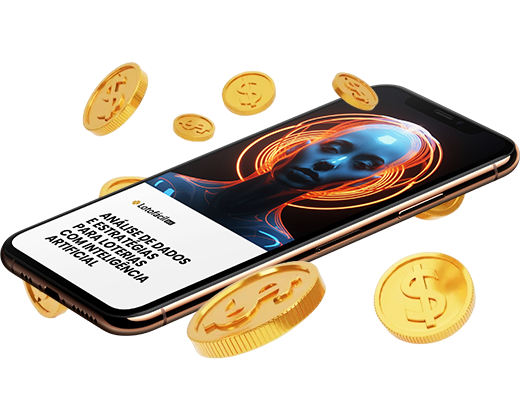
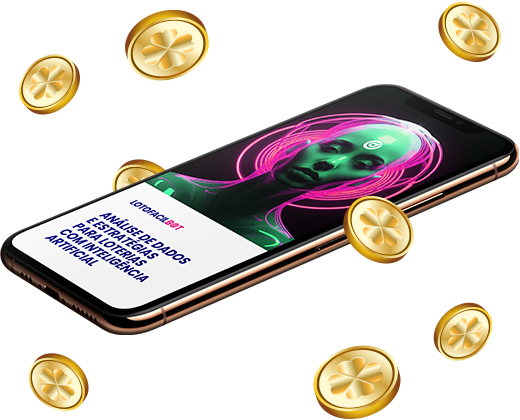
edited

diff --git a/index.html b/index.html
@@ -26,7 +26,7 @@
                 <img src="./logo-lotofacilbot.png" class="mr-3 h-6 sm:h-6" alt="LOTOFÁCIL BOT Logo" />
             </a>
             <div class="flex items-center lg:order-2">
-                <a href="https://lotofacilbot.com/register" class="text-black hover:text-white bg-yellow-600 hover:bg-yellow-700 focus:ring-4 focus:ring-primary-300 font-medium rounded-lg text-base px-4 lg:px-5 py-2 lg:py-2.5 dark:bg-primary-600 dark:hover:bg-primary-700 focus:outline-none dark:focus:ring-primary-800">Cadastre-se!</a>
+                <a href="https://lotofacilbot.com/register" class="text-white hover:text-white bg-pink-600 hover:bg-pink-700 focus:ring-4 focus:ring-primary-300 font-medium rounded-lg text-base px-4 lg:px-5 py-2 lg:py-2.5 dark:bg-primary-600 dark:hover:bg-primary-700 focus:outline-none dark:focus:ring-primary-800">Cadastre-se!</a>
             </div>
             
         </div>
@@ -36,12 +36,12 @@
 
 
 <!-- INÍCIO HERO -->
-<section class="bg-black">
+<section class="bg-blue-950">
     <div class="grid max-w-screen-xl px-4 py-8 mx-auto lg:gap-8 xl:gap-0 lg:py-16 lg:grid-cols-12">
         <div class="mr-auto place-self-center lg:col-span-7">
-            <h1 class="max-w-2xl mb-4 text-4xl font-bold tracking-tight md:text-5xl xl:text-5xl text-white">Análise de Dados e Estratégias para <span class="text-yellow-600">Loterias</span> com Inteligência Artificial</h1>
-            <p class="max-w-2xl mb-6 font-normal lg:mb-8 md:text-lg lg:text-xl text-gray-300">Descubra uma nova era nas apostas de loteria. Potencialize sua estratégia, automatize suas escolhas e eleve suas chances de sucesso.</p>
-            <a href="https://lotofacilbot.com/register" class="inline-flex items-center justify-center px-5 py-3 mr-3 text-base font-medium text-center text-black hover:text-white rounded-lg bg-yellow-600 hover:bg-yellow-700 focus:ring-4 focus:ring-primary-300 dark:focus:ring-primary-900">
+            <h1 class="max-w-2xl mb-4 text-4xl font-bold tracking-tight md:text-5xl xl:text-5xl text-white">Análise de Dados e Estratégias para <span class="text-pink-600">Loterias</span> com Inteligência Artificial</h1>
+            <p class="max-w-2xl mb-6 font-normal lg:mb-8 md:text-lg lg:text-xl text-white">Descubra uma nova era nas apostas de loteria. Potencialize sua estratégia, automatize suas escolhas e eleve suas chances de sucesso.</p>
+            <a href="https://lotofacilbot.com/register" class="inline-flex items-center justify-center px-5 py-3 mr-3 text-base font-medium text-center text-white hover:text-white rounded-lg bg-pink-600 hover:bg-pink-700 focus:ring-4 focus:ring-primary-300 dark:focus:ring-primary-900">
                 Cadastre-se!
                 <svg class="w-5 h-5 ml-2 -mr-1" fill="currentColor" viewBox="0 0 20 20" xmlns="http://www.w3.org/2000/svg"><path fill-rule="evenodd" d="M10.293 3.293a1 1 0 011.414 0l6 6a1 1 0 010 1.414l-6 6a1 1 0 01-1.414-1.414L14.586 11H3a1 1 0 110-2h11.586l-4.293-4.293a1 1 0 010-1.414z" clip-rule="evenodd"></path></svg>
             </a>
@@ -67,23 +67,17 @@
       </div>
       <div class="space-y-8 md:grid md:grid-cols-2 lg:grid-cols-3 md:gap-12 md:space-y-0">
           <div>
-              <div class="flex justify-center items-center mb-4 w-7 h-7 rounded-full lg:h-7 lg:w-7">
-                  <svg xmlns="http://www.w3.org/2000/svg" viewBox="0 0 448 512"><path d="M448 80v48c0 44.2-100.3 80-224 80S0 172.2 0 128V80C0 35.8 100.3 0 224 0S448 35.8 448 80zM393.2 214.7c20.8-7.4 39.9-16.9 54.8-28.6V288c0 44.2-100.3 80-224 80S0 332.2 0 288V186.1c14.9 11.8 34 21.2 54.8 28.6C99.7 230.7 159.5 240 224 240s124.3-9.3 169.2-25.3zM0 346.1c14.9 11.8 34 21.2 54.8 28.6C99.7 390.7 159.5 400 224 400s124.3-9.3 169.2-25.3c20.8-7.4 39.9-16.9 54.8-28.6V432c0 44.2-100.3 80-224 80S0 476.2 0 432V346.1z"/></svg>
-              </div>
+              <img class="w-full rounded-lg mb-4" src="./analisededados.png" alt="Análise de Dados">
               <h3 class="mb-2 text-xl font-bold dark:text-white">Análise de Dados</h3>
               <p class="text-gray-600 dark:text-gray-500">Explore estatísticas detalhadas e insights valiosos sobre padrões numéricos e tendências de sorteio, auxiliando na tomada de decisões mais informadas ao fazer suas apostas.</p>
           </div>
           <div>
-              <div class="flex justify-center items-center mb-4 w-9 h-9 rounded-full lg:h-9 lg:w-9">
-                 <svg xmlns="http://www.w3.org/2000/svg" viewBox="0 0 448 512"><path d="M216.6 49.9C205.1 38.5 189.5 32 173.3 32C139.4 32 112 59.4 112 93.3v4.9c0 12 3.3 23.7 9.4 34l18.8 31.3c1.1 1.8 1.2 3.1 1 4.2c-.2 1.2-.8 2.5-2 3.6s-2.4 1.8-3.6 2c-1 .2-2.4 .1-4.2-1l-31.3-18.8c-10.3-6.2-22-9.4-34-9.4H61.3C27.4 144 0 171.4 0 205.3c0 16.2 6.5 31.8 17.9 43.3l1.2 1.2c3.4 3.4 3.4 9 0 12.4l-1.2 1.2C6.5 274.9 0 290.5 0 306.7C0 340.6 27.4 368 61.3 368h4.9c12 0 23.7-3.3 34-9.4l31.3-18.8c1.8-1.1 3.1-1.2 4.2-1c1.2 .2 2.5 .8 3.6 2s1.8 2.4 2 3.6c.2 1 .1 2.4-1 4.2l-18.8 31.3c-6.2 10.3-9.4 22-9.4 34v4.9c0 33.8 27.4 61.3 61.3 61.3c16.2 0 31.8-6.5 43.3-17.9l1.2-1.2c3.4-3.4 9-3.4 12.4 0l1.2 1.2c11.5 11.5 27.1 17.9 43.3 17.9c33.8 0 61.3-27.4 61.3-61.3v-4.9c0-12-3.3-23.7-9.4-34l-18.8-31.3c-1.1-1.8-1.2-3.1-1-4.2c.2-1.2 .8-2.5 2-3.6s2.4-1.8 3.6-2c1-.2 2.4-.1 4.2 1l31.3 18.8c10.3 6.2 22 9.4 34 9.4h4.9c33.8 0 61.3-27.4 61.3-61.3c0-16.2-6.5-31.8-17.9-43.3l-1.2-1.2c-3.4-3.4-3.4-9 0-12.4l1.2-1.2c11.5-11.5 17.9-27.1 17.9-43.3c0-33.8-27.4-61.3-61.3-61.3h-4.9c-12 0-23.7 3.3-34 9.4l-31.3 18.8c-1.8 1.1-3.1 1.2-4.2 1c-1.2-.2-2.5-.8-3.6-2s-1.8-2.4-2-3.6c-.2-1-.1-2.4 1-4.2l18.8-31.3c6.2-10.3 9.4-22 9.4-34V93.3C336 59.4 308.6 32 274.7 32c-16.2 0-31.8 6.5-43.3 17.9l-1.2 1.2c-3.4 3.4-9 3.4-12.4 0l-1.2-1.2z"/></svg>
-              </div>
+              <img class="w-full rounded-lg mb-4" src="./estrategialoterias.png" alt="Estratégias para Loterias">
               <h3 class="mb-2 text-xl font-bold dark:text-white">Estratégias para Loterias</h3>
               <p class="text-gray-600 dark:text-gray-500">Desenvolva táticas inteligentes e personalizadas para aumentar suas chances de ganhar, utilizando análises precisas e recomendações estratégicas adaptadas ao seu perfil de apostador.</p>
           </div>
           <div>
-              <div class="flex justify-center items-center mb-4 w-10 h-10 rounded-full lg:h-10 lg:w-10">
-                  <svg xmlns="http://www.w3.org/2000/svg" viewBox="0 0 640 512"><path d="M320 0c17.7 0 32 14.3 32 32V96H472c39.8 0 72 32.2 72 72V440c0 39.8-32.2 72-72 72H168c-39.8 0-72-32.2-72-72V168c0-39.8 32.2-72 72-72H288V32c0-17.7 14.3-32 32-32zM208 384c-8.8 0-16 7.2-16 16s7.2 16 16 16h32c8.8 0 16-7.2 16-16s-7.2-16-16-16H208zm96 0c-8.8 0-16 7.2-16 16s7.2 16 16 16h32c8.8 0 16-7.2 16-16s-7.2-16-16-16H304zm96 0c-8.8 0-16 7.2-16 16s7.2 16 16 16h32c8.8 0 16-7.2 16-16s-7.2-16-16-16H400zM264 256a40 40 0 1 0 -80 0 40 40 0 1 0 80 0zm152 40a40 40 0 1 0 0-80 40 40 0 1 0 0 80zM48 224H64V416H48c-26.5 0-48-21.5-48-48V272c0-26.5 21.5-48 48-48zm544 0c26.5 0 48 21.5 48 48v96c0 26.5-21.5 48-48 48H576V224h16z"/></svg>                  
-              </div>
+              <img class="w-full rounded-lg mb-4" src="./Inteligenciaartificial.png" alt="Inteligência Artificial">
               <h3 class="mb-2 text-xl font-bold dark:text-white">Inteligência Artificial</h3>
               <p class="text-gray-600 dark:text-gray-500">Conte com o poder da tecnologia avançada para otimizar suas escolhas de números, utilizando algoritmos inteligentes e aprendizado de máquina para maximizar suas chances de sucesso nas loterias.</p>
           </div>
@@ -101,10 +95,10 @@
 <p class="text-gray-500 sm:text-xl dark:text-gray-400">Bem-vindo ao nosso inovador produto de loteria! Inicialmente, oferecemos estatísticas detalhadas da <span class="font-semibold">Lotofácil</span> e de outras loterias renomadas.</p>
 </div>
 
-<iframe width="100%" height="698" class="rounded-lg" src="https://www.youtube.com/embed/1A5dxbtlX2k?si=THZjMzYtFMi6irqr" title="YouTube video player" frameborder="0" allow="accelerometer; autoplay; clipboard-write; encrypted-media; gyroscope; picture-in-picture; web-share" allowfullscreen></iframe>
+<iframe width="100%" height="698" class="rounded-lg" src="https://www.youtube.com/embed/zQFdIP4AZCk?si=zx9ChAP_7sWnnv-s" title="YouTube video player" frameborder="0" allow="accelerometer; autoplay; clipboard-write; encrypted-media; gyroscope; picture-in-picture; web-share" allowfullscreen></iframe>
 
 <div class="text-center mt-8">
-<a href="https://lotofacilbot.com/register" class="inline-flex items-center justify-center px-24 py-3 text-base font-medium text-center text-black hover:text-white rounded-lg bg-yellow-600 hover:bg-yellow-700 focus:ring-4 focus:ring-primary-300 ">
+<a href="https://lotofacilbot.com/register" class="inline-flex items-center justify-center px-24 py-3 text-base font-medium text-center text-white hover:text-white rounded-lg bg-pink-600 hover:bg-pink-700 focus:ring-4 focus:ring-primary-300 ">
 Cadastre-se!
 <svg class="w-5 h-5 ml-2 -mr-1" fill="currentColor" viewBox="0 0 20 20" xmlns="http://www.w3.org/2000/svg"><path fill-rule="evenodd" d="M10.293 3.293a1 1 0 011.414 0l6 6a1 1 0 010 1.414l-6 6a1 1 0 01-1.414-1.414L14.586 11H3a1 1 0 110-2h11.586l-4.293-4.293a1 1 0 010-1.414z" clip-rule="evenodd"></path></svg>
 </a>
@@ -144,8 +138,8 @@ Cadastre-se!
             <p class="font-semibold mt-4">Abraçando o futuro! Lotofácil bot</p>
         </div>
         <div class="grid grid-cols-2 gap-4 mt-8">
-            <img class="w-full rounded-lg" src="https://img.freepik.com/fotos-gratis/ai-gerou-o-conceito-de-ser-humano_23-2150688373.jpg?w=740&t=st=1707926968~exp=1707927568~hmac=fbaf28a99662dce982b65cdcbcbde77f2298913ea42f66db00726a944d8cc777" alt="office content 1">
-            <img class="mt-4 w-full lg:mt-10 rounded-lg" src="https://img.freepik.com/fotos-gratis/sala-de-hub-de-racks-de-servidor-de-dados-com-centro-de-computacao-de-big-data-interior-azul-para-hospedar-hardware-de-armazenamento_90220-1033.jpg?w=740&t=st=1707927114~exp=1707927714~hmac=c4dd2f47ba075d704c45f22e7430f0137841e31d5db1b38cde79b146703567f4" alt="office content 2">
+            <img class="w-full rounded-lg" src="./ai-generated.jpg" alt="office content 1">
+            <img class="mt-4 w-full lg:mt-10 rounded-lg" src="./hub-servidor.jpg" alt="office content 2">
         </div>
     </div>
 </section>
@@ -224,20 +218,20 @@ Cadastre-se!
 
 
 <!-- FOOTER/RODAPÉ -->
-<footer class="bg-black ">
+<footer class="bg-blue-950 ">
     <div class="w-full max-w-screen-xl mx-auto p-4 md:py-8">
         <div class="sm:flex sm:items-center sm:justify-between">
             <a href="https://flowbite.com/" class="flex items-center mb-4 sm:mb-0 space-x-3 rtl:space-x-reverse">
                 <img src="./logo-lotofacilbot-white.png" class="mr-3 h-6 sm:h-6" alt="LOTOFÁCIL BOT Logo" />
             </a>
-            <ul class="flex flex-wrap items-center mb-6 text-sm font-medium sm:mb-0 text-gray-400">
+            <ul class="flex flex-wrap items-center mb-6 text-sm font-medium sm:mb-0 text-white">
                 <li>
                     <a href="https://lotofacilbot.com/p/politica-de-privacidade" class="hover:underline me-4 md:me-6">Política de Privacidade</a>
                 </li>
             </ul>
         </div>
         <hr class="my-6 sm:mx-auto border-gray-700 lg:my-8" />
-        <span class="block text-sm sm:text-center text-gray-400">© 2024 <a href="https://flowbite.com/" class="hover:underline">Lotofácil Bot</a>. All Rights Reserved.</span>
+        <span class="block text-sm sm:text-center text-white">© 2024 <a href="https://flowbite.com/" class="hover:underline">Lotofácil Bot</a>. All Rights Reserved.</span>
     </div>
 </footer>
 

diff --git a/tailwind.config.js b/tailwind.config.js
@@ -3,7 +3,7 @@ tailwind.config = {
   theme: {
     extend: {
       colors: {
-        primary: {"50":"#fefce8","100":"#fef9c3","200":"#fef08a","300":"#fde047","400":"#facc15","500":"#eab308","600":"#ca8a04","700":"#a16207","800":"#854d0e","900":"#713f12","950":"#451a03"}
+        primary: {"50":"#fdf2f8","100":"#fce7f3","200":"#fbcfe8","300":"#f9a8d4","400":"#f472b6","500":"#ec4899","600":"#db2777","700":"#be185d","800":"#9d174d","900":"#831843","950":"#500724"}
       }
     },
     fontFamily: {
